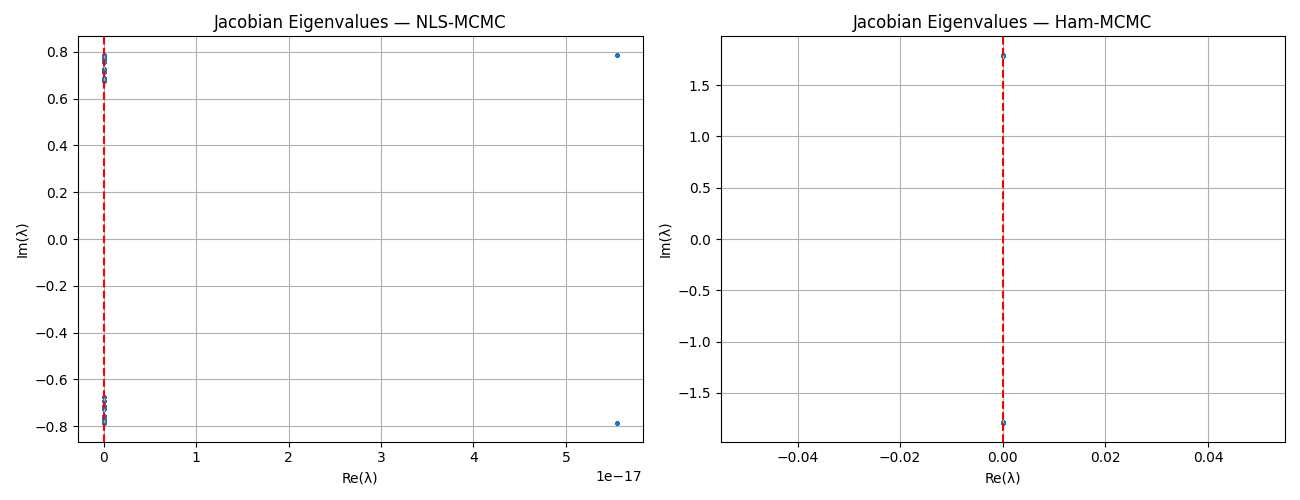
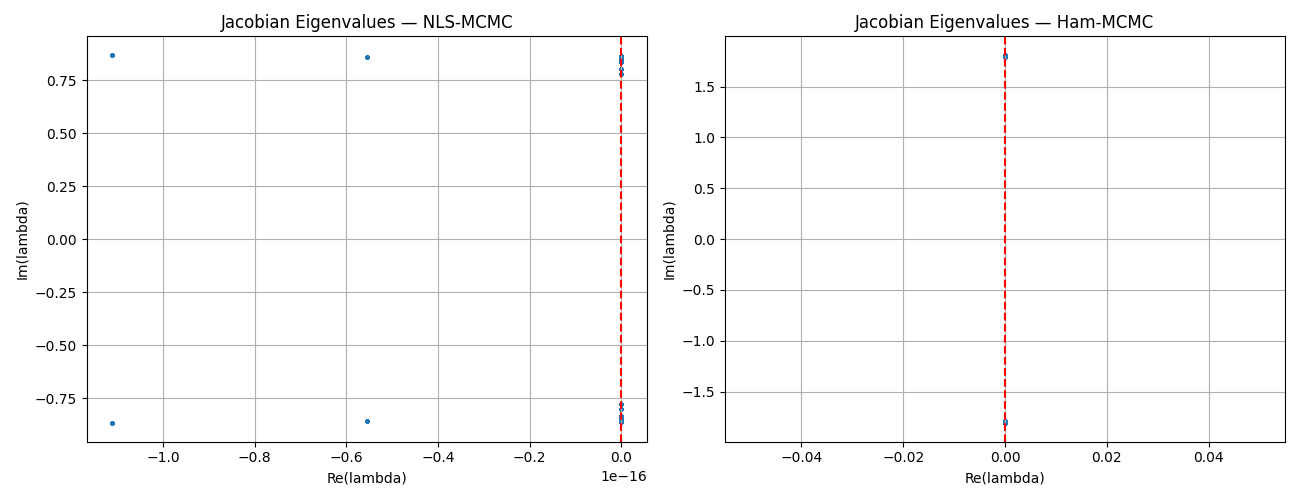
Figures

diff --git a/NLS_code.py b/NLS_code.py
@@ -189,8 +189,8 @@ if __name__ == "__main__":
                 imag_parts.append(np.imag(eig))
         ax.scatter(real_parts, imag_parts, s=4, alpha=0.3)
         ax.axvline(0, linestyle='--', color='red')
-        ax.set_xlabel('Re(λ)')
-        ax.set_ylabel('Im(λ)')
+        ax.set_xlabel('Re(lambda)')
+        ax.set_ylabel('Im(lambda)')
         ax.set_title(f'Jacobian Eigenvalues — {label}')
         ax.grid(True)
     plt.tight_layout()
@@ -210,16 +210,16 @@ if __name__ == "__main__":
                 label=f'NLS point ({nls_pt_freq:.3f})')
     plt.axvline(ham_pt_freq, color='darkorange', linestyle='--',
                 label=f'Ham point ({ham_pt_freq:.3f})')
-    plt.xlabel('|Im(λ)| = √(αγ)   [oscillation frequency at equilibrium]')
+    plt.xlabel('|Im(lambda)| = √(alphabeta)   [oscillation frequency at equilibrium]')
     plt.ylabel('Count')
-    plt.title('Distance from Degenerate Centre (Bifurcation Boundary)\nNLS-MCMC vs Hamiltonian-MCMC')
+    plt.title('Distance from Center (Bifurcation Boundary)\nNLS-MCMC vs Hamiltonian-MCMC')
     plt.legend()
     plt.grid(True)
     plt.tight_layout()
     plt.savefig('eigenvalue_comparison.png')
     plt.show()
 
-    print("\n===== Oscillation Frequency |Im(λ)| = sqrt(αγ) =====")
+    print("\n===== Oscillation Frequency |Im(λ)| = sqrt(alphabeta) =====")
     print(f"NLS-MCMC : mean={np.mean(nls_freqs):.4f},  std={np.std(nls_freqs):.4f},  "
           f"95% CI=[{np.percentile(nls_freqs,2.5):.4f}, {np.percentile(nls_freqs,97.5):.4f}]")
     print(f"Ham-MCMC : mean={np.mean(ham_freqs):.4f},  std={np.std(ham_freqs):.4f},  "
@@ -242,4 +242,54 @@ if __name__ == "__main__":
         ax.grid(True)
     plt.tight_layout()
     plt.savefig('equilibrium_distribution.png')
+    plt.show()
+
+    n_draws = 200
+    years = data['year'].values
+
+    fig, axes = plt.subplots(1, 2, figsize=(15, 5))
+    for ax, posterior, label, color in [
+        (axes[0], nls_posterior, 'NLS-MCMC', 'steelblue'),
+        (axes[1], ham_posterior, 'Ham-MCMC', 'darkorange'),
+    ]:
+        idx = np.random.choice(len(posterior), size=n_draws, replace=False)
+        for i in idx:
+            try:
+                xm, ym = solve_model(posterior[i], data)
+                ax.plot(years, xm, color='tab:blue', alpha=0.05, linewidth=0.8)
+                ax.plot(years, ym, color='tab:red', alpha=0.05, linewidth=0.8)
+            except Exception:
+                pass
+        ax.plot(years, data['hare'], 'o-', color='tab:blue', label='Hare (data)', zorder=5)
+        ax.plot(years, data['lynx'], 'o-', color='tab:red', label='Lynx (data)', zorder=5)
+        ax.set_xlabel('Year')
+        ax.set_ylabel('Population (thousands)')
+        ax.set_title(f'Posterior Predictive — {label}')
+        ax.legend()
+        ax.grid(True)
+    plt.tight_layout()
+    plt.savefig('posterior_predictive_timeseries.png')
+    plt.show()
+
+    fig, axes = plt.subplots(1, 2, figsize=(13, 5))
+    for ax, posterior, label, color in [
+        (axes[0], nls_posterior, 'NLS-MCMC', 'steelblue'),
+        (axes[1], ham_posterior, 'Ham-MCMC', 'darkorange'),
+    ]:
+        idx = np.random.choice(len(posterior), size=n_draws, replace=False)
+        for i in idx:
+            try:
+                xm, ym = solve_model(posterior[i], data)
+                ax.plot(xm, ym, color=color, alpha=0.08, linewidth=0.8)
+            except Exception:
+                pass
+        ax.plot(data['hare'], data['lynx'], 'ko-', linewidth=1.5, markersize=4,
+                label='Data', zorder=5)
+        ax.set_xlabel('Hare Population (thousands)')
+        ax.set_ylabel('Lynx Population (thousands)')
+        ax.set_title(f'Phase Portrait — {label}')
+        ax.legend()
+        ax.grid(True)
+    plt.tight_layout()
+    plt.savefig('posterior_predictive_phase.png')
     plt.show()
